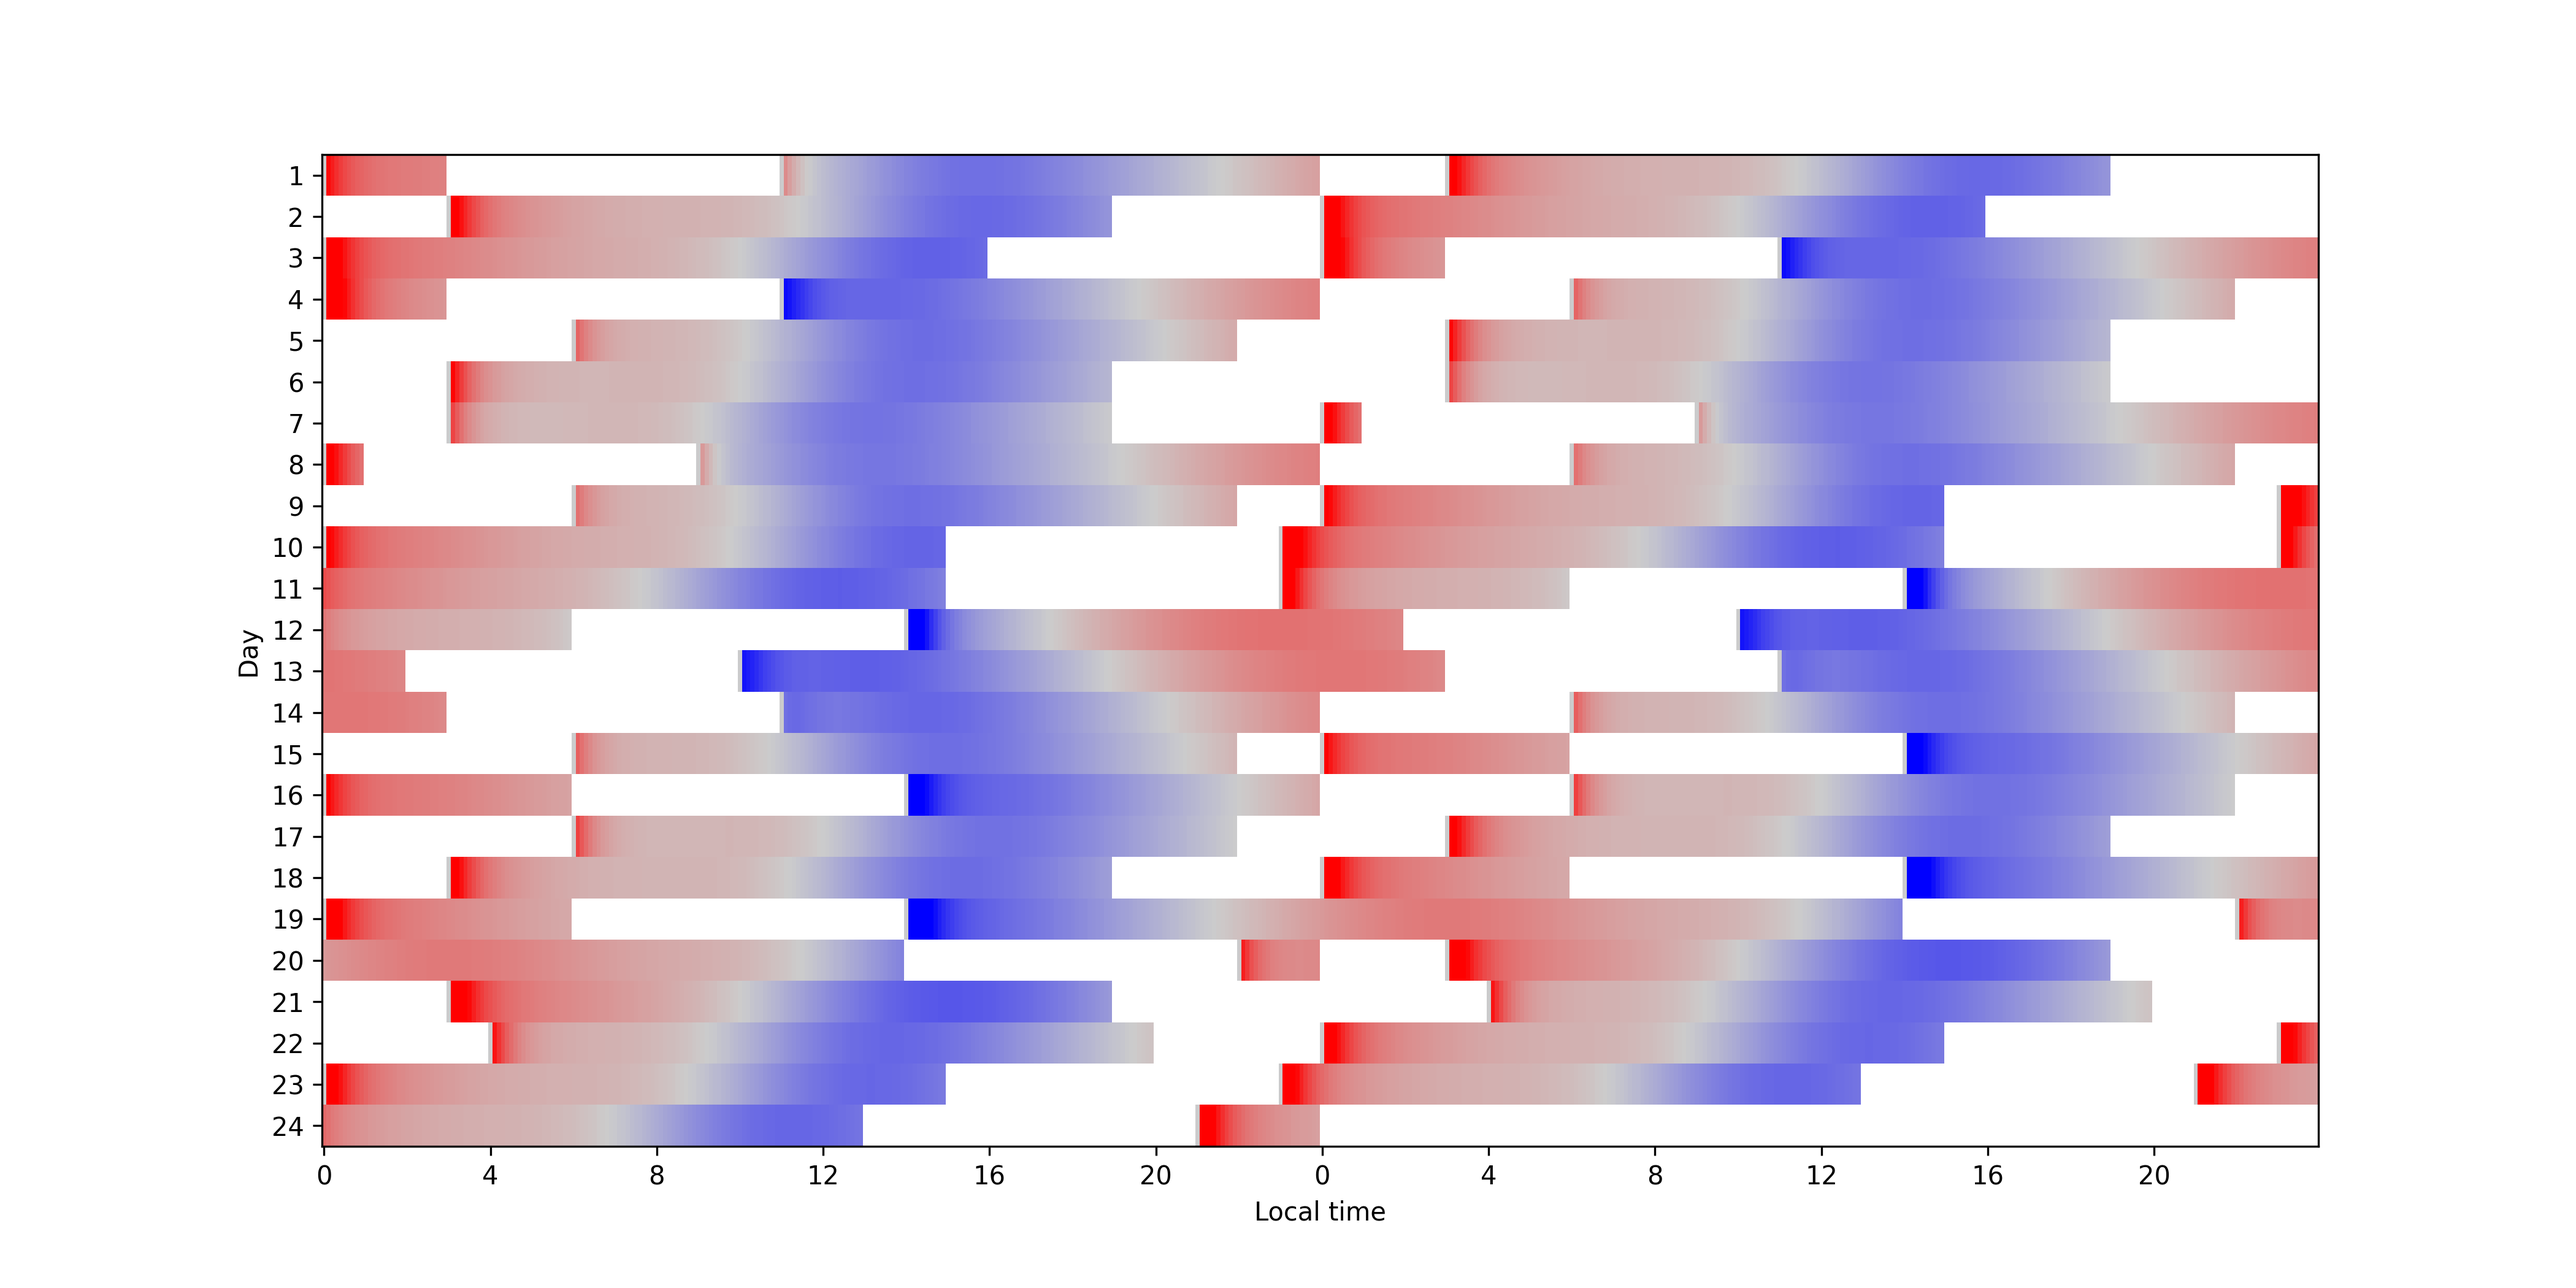
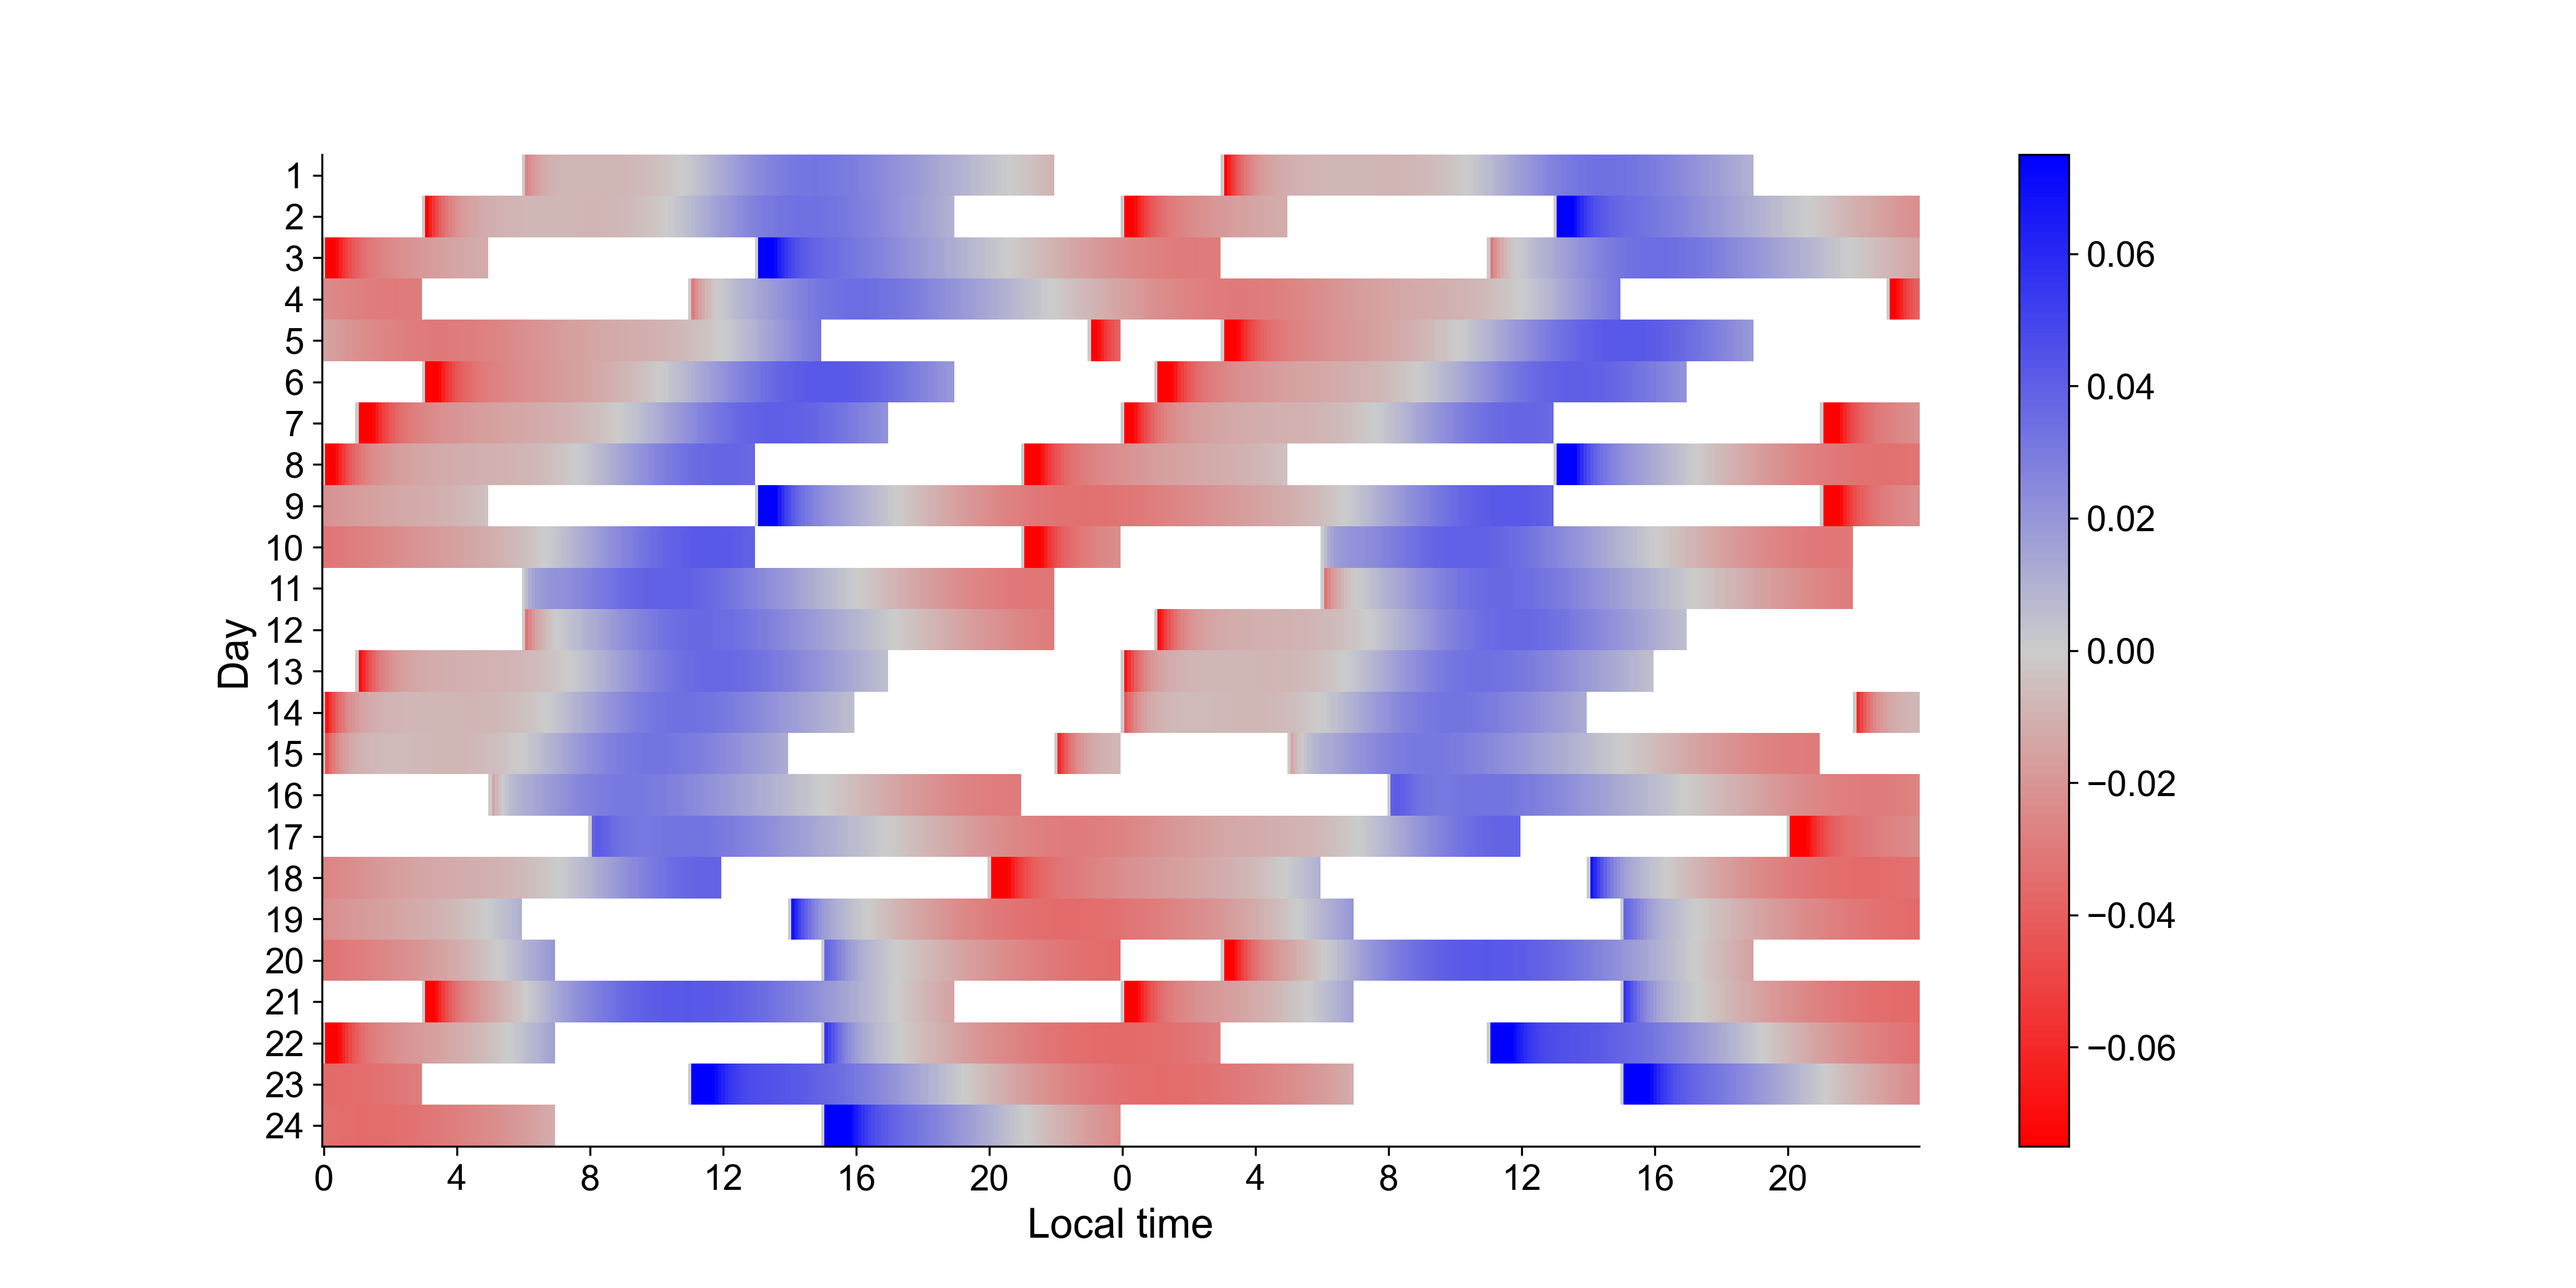
Add colorbar

diff --git a/make_sleep_irregularity_figure.py b/make_sleep_irregularity_figure.py
@@ -2,7 +2,7 @@ import numpy as np
 import matplotlib.pyplot as plt
 from matplotlib.colors import LinearSegmentedColormap
 from matplotlib.colors import Normalize
-
+import matplotlib
 from lco import integrate_model, forger_model, hannay_model
 
 hours_per_day = 24
@@ -142,21 +142,28 @@ def plot_actogram_double_plotted(sleep_wake_vector, amplitude_delta, simulation_
     norm.autoscale_None([np.nan])  # Auto-scale to include NaN
     custom_cmap.set_bad(color='white')  # Set NaNs to white
 
-    ax.imshow(double_plotted_data, aspect='auto', cmap=custom_cmap, norm=norm)
+    font_size = 16
+    tick_font_size = 14
+
+    cax = ax.imshow(double_plotted_data, aspect='auto', cmap=custom_cmap, norm=norm)
+    cbar = fig.colorbar(cax, ax=ax)
+    cbar.ax.tick_params(labelsize=tick_font_size)
 
     # Adjust ticks for 48-hour x-axis
     dt_plot = 4
     x_ticks = np.arange(0, hours_per_day / timestep * 2, dt_plot / timestep)
 
     x_tick_labels = [str(int(x % hours_per_day)) for x in np.arange(0, hours_per_day * 2, dt_plot)]
-
-    ax.set_xlabel('Local time')
-    ax.set_ylabel('Day')
+    ax.set_xlabel('Local time', fontsize=font_size)
+    ax.set_ylabel('Day', fontsize=font_size)
     ax.set_xticks(x_ticks)
-    ax.set_xticklabels(x_tick_labels)
+    ax.set_xticklabels(x_tick_labels, fontsize=tick_font_size)
     ax.set_yticks(np.arange(simulation_days))
-    ax.set_yticklabels(np.arange(1, simulation_days + 1))
+    ax.set_yticklabels(np.arange(1, simulation_days + 1), fontsize=tick_font_size)
     ax.grid(False)
+    ax.spines['top'].set_visible(False)
+    ax.spines['right'].set_visible(False)
+
     plt.savefig(f"outputs/{plot_title}.png", dpi=300)
     plt.close()
     # plt.show()
@@ -171,6 +178,8 @@ def amplitude_derivative_cartesian(state_vector, d_state_vector):
 
 
 if __name__ == '__main__':
+    matplotlib.rcParams['font.family'] = 'Arial'
+
     num_days = 24
     regularity = 0.8
     dt = 0.1
@@ -196,6 +205,7 @@ if __name__ == '__main__':
                                       light,
                                       initial_condition,
                                       model)
+
 
                 # Calculate dR using chain rule
                 for i in range(np.shape(sol)[1] - 1):
